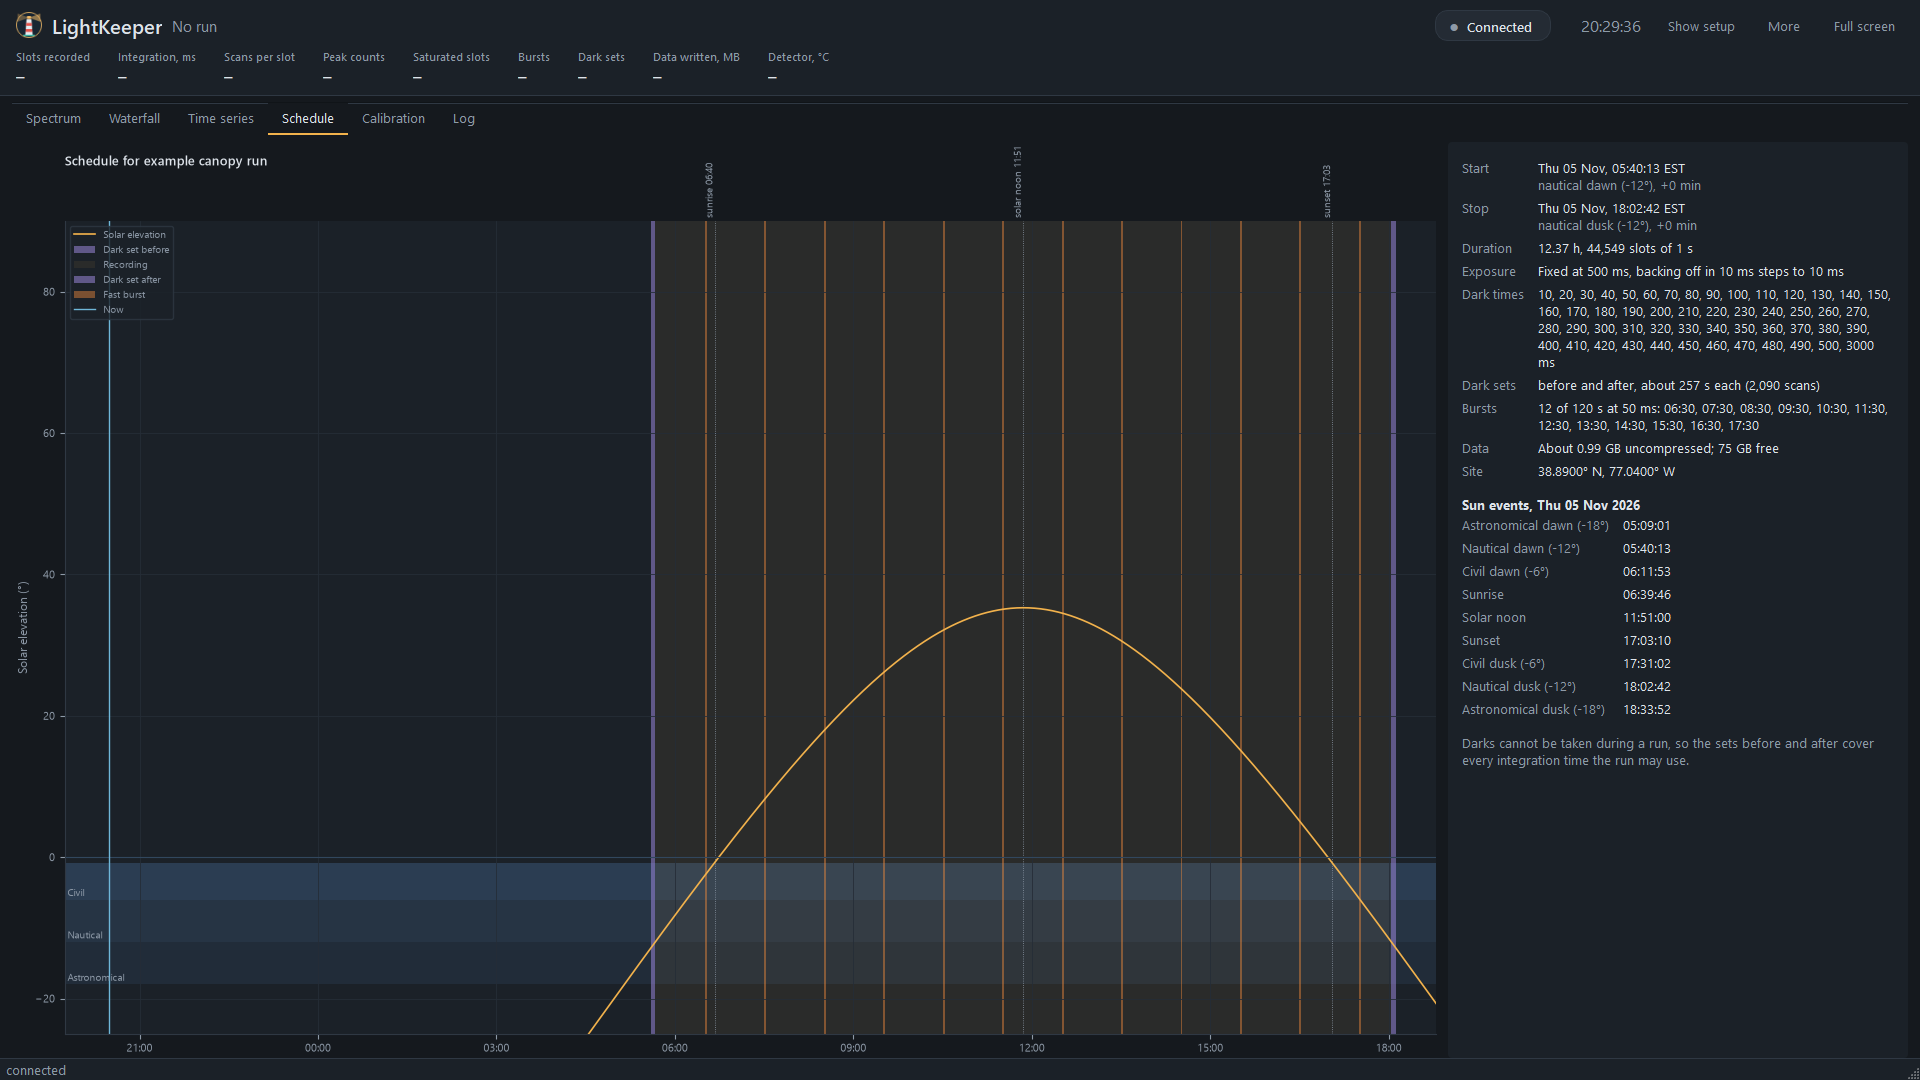
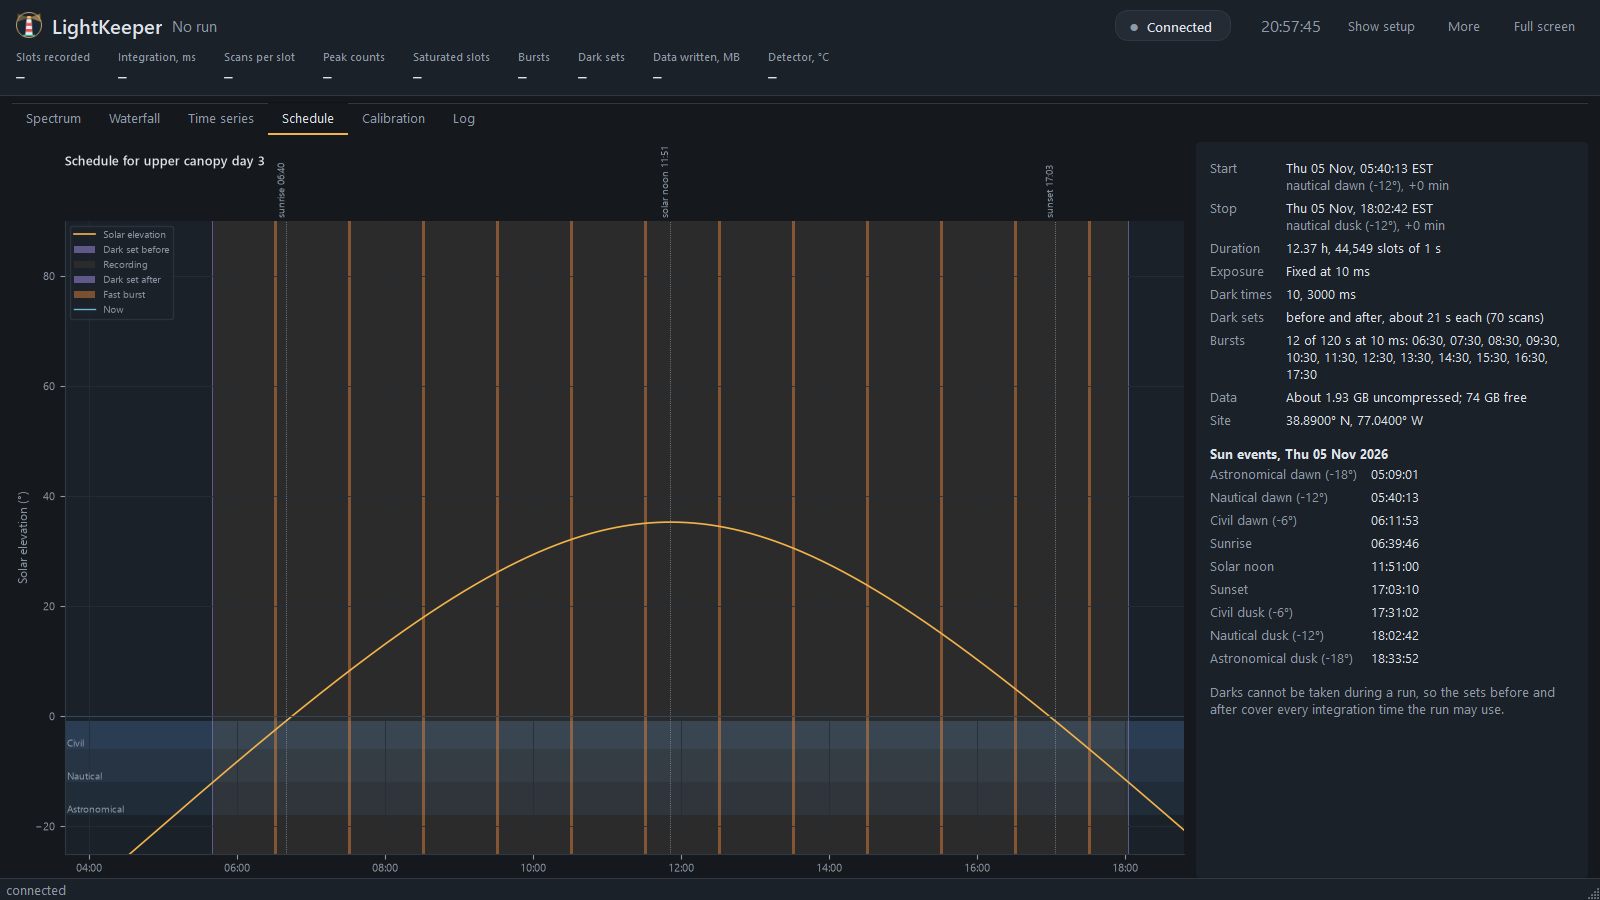
README: new waterfall and schedule screenshots
The waterfall is a recorded day trimmed to usable daylight. The schedule
uses an example site rather than the field site.

diff --git a/README.md b/README.md
@@ -49,8 +49,8 @@ at a forest edge, with the vegetation red edge near 700 nm and both branches of 
   <img src="docs/images/screenshot-spectrum.png" alt="Spectrum tab during a recording: the live daylight scan, the wavelength-colour strip and the recent slots" width="100%">
 </p>
 <p align="center">
-  <img src="docs/images/screenshot-waterfall.png" alt="Waterfall tab: spectral shape over a morning, from pre-dawn darkness through sunrise" width="49%">
-  <img src="docs/images/screenshot-schedule.png" alt="Schedule tab: solar elevation, dark sets, recording window and burst times for a dawn-to-dusk run" width="49%">
+  <img src="docs/images/screenshot-waterfall.png" alt="Waterfall tab: spectral shape over one recorded day, trimmed automatically to usable daylight" width="49%">
+  <img src="docs/images/screenshot-schedule.png" alt="Schedule tab: solar elevation, dark sets, recording window and burst times for a run from nautical dawn to nautical dusk, shown for an example site" width="49%">
 </p>
 
 ## Supported spectrometers
